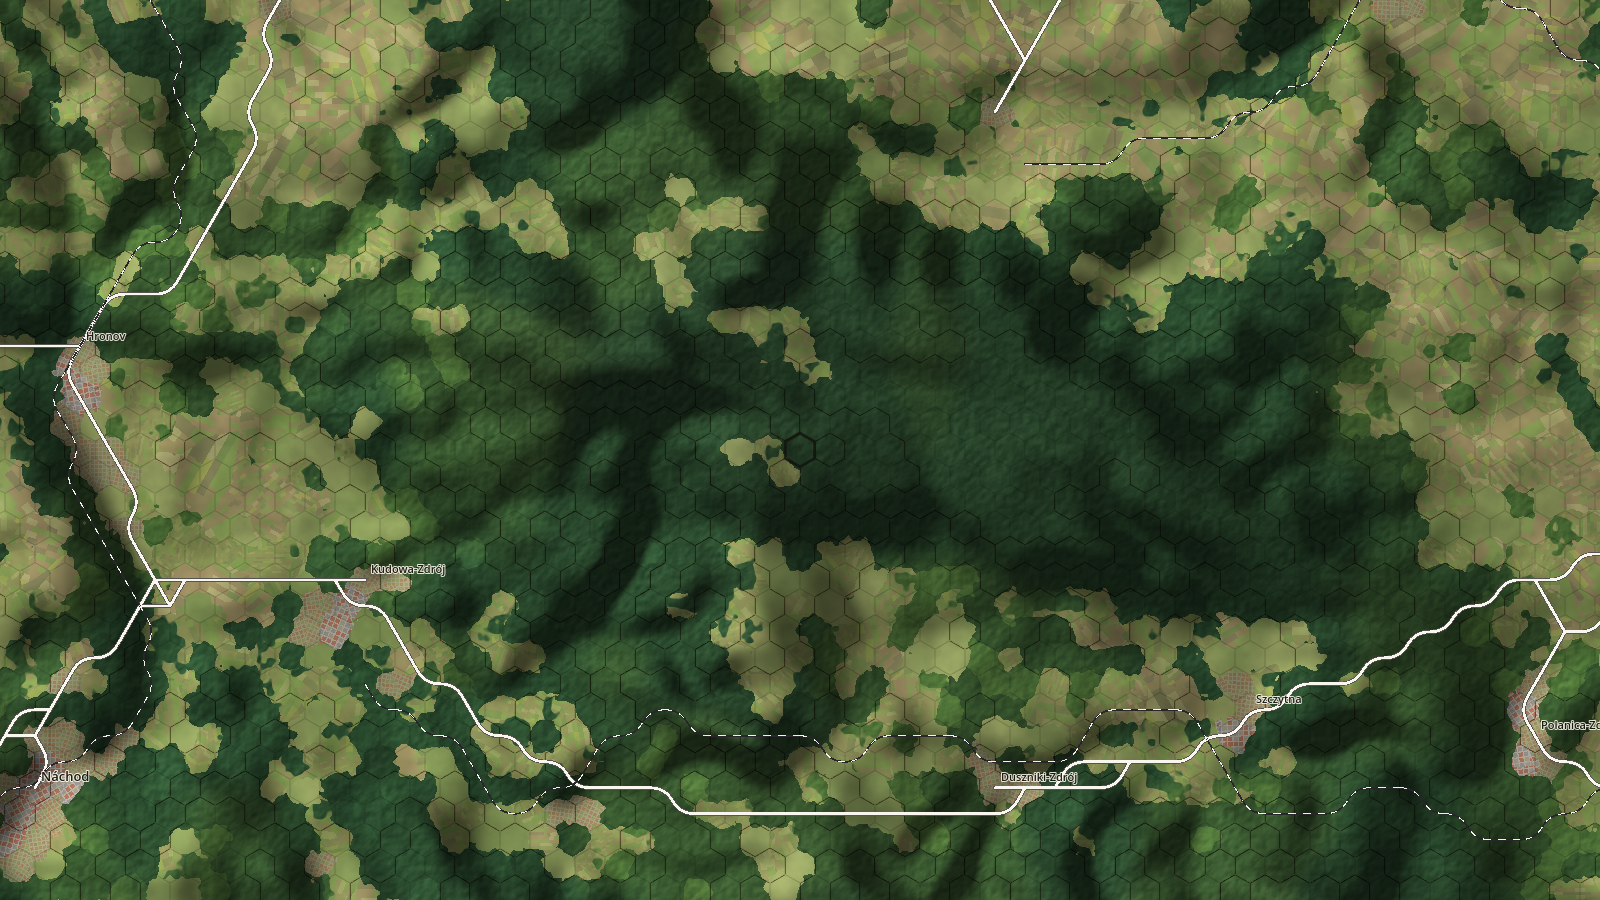
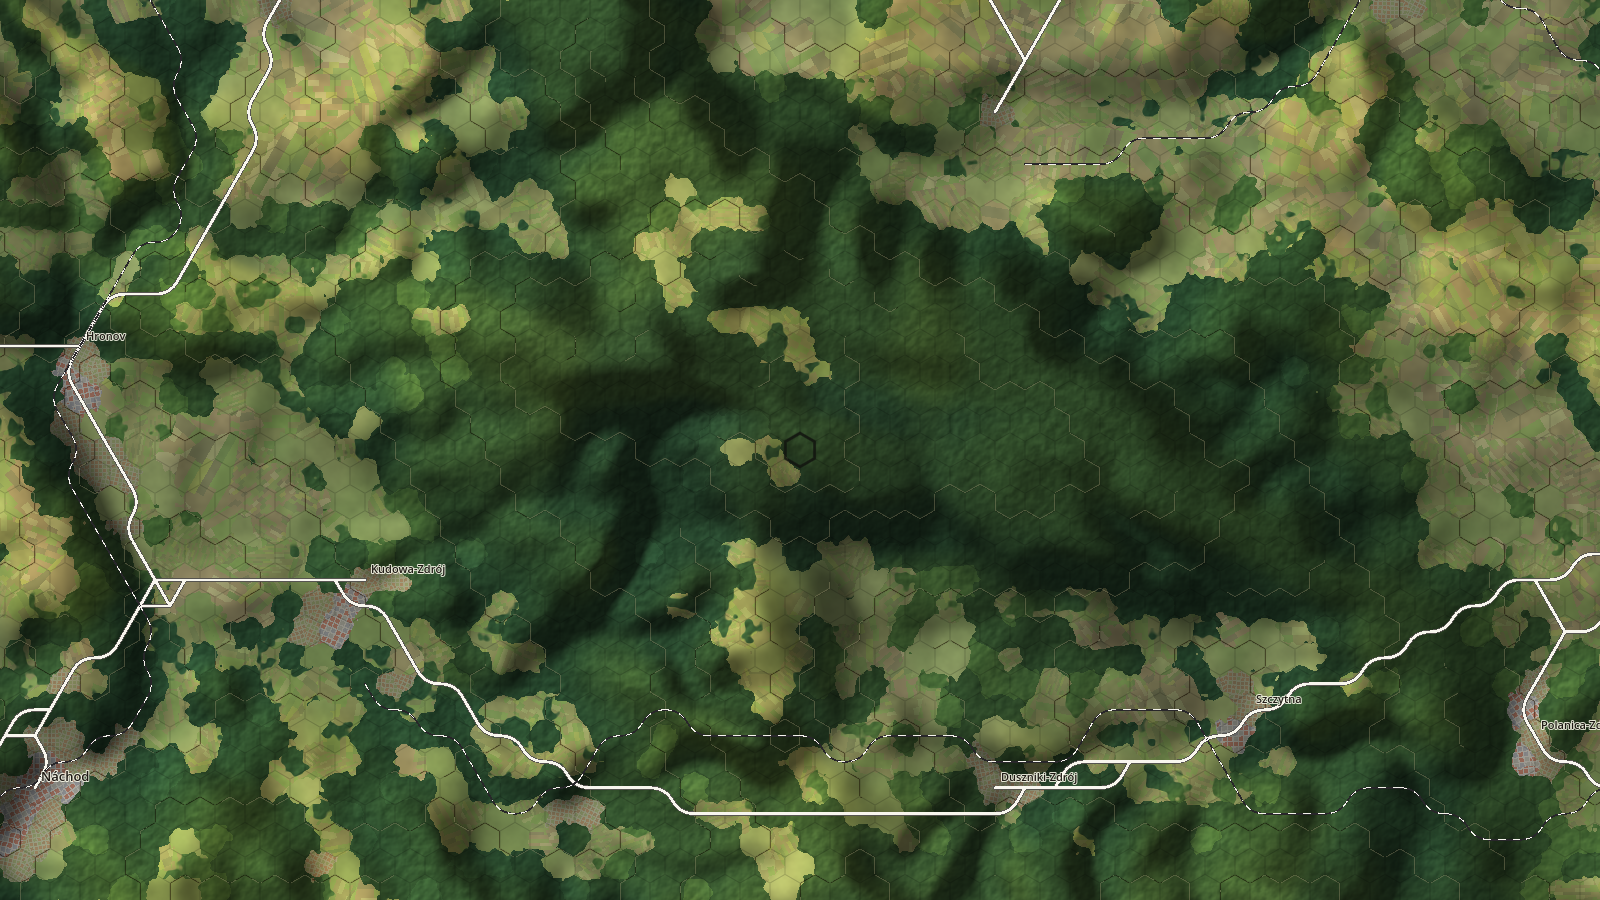
Elevation tint and step lines that follow the relief (terrain look, card 5)
- Elevation tint: ground above its surroundings (mean over ~3 km) lighter
  and warmer, lower ground darker and cooler, scaled to the local relief
  so gentle lowland rises show; View > Elevation tint.
- Step lines: band from the local slope (25/50/100/200/400 m, a line every
  3-4 hexes), hex heights smoothed over 1.4 km so lines trace clean
  terraces instead of a second hex grid; pale on forest, dark on fields.
- A mipmapped 1/8 copy of the height raster gives the shader local means.

Tests: --uitest 173 PASS (tint on/off, menu, picture changes). No C++
change: libraries untouched.

Claude-Session: https://claude.ai/code/session_01Ci47Wsw9Z7YaH1HWLoegDC

Changed region(s): [[0.0312, 0.0933, 0.0625, 0.1244]]

diff --git a/README.md b/README.md
@@ -9,7 +9,7 @@ This build proves the risky technical core of the design plan (roadmap phase 1, 
 - **Menus.** Every order and setting can be picked from a menu, and every menu item shows its key:
   - **Screen layout (work board MRK-35).** Panels are docked so they never cover each other: the contract line under the menu bar; the order of battle down the left (F11); the selection (a unit, a team, the company, or a place) on the right, with the tool panels (sandbox, planning key, ruler) stacked under it; the reports along the bottom. The selection panel scrolls when the right side is too short for it.
   - **Right-click order menu.** Right-click a hex with your units selected and a short menu opens at the cursor: Move, Road march, Deliberate move or Assault *here*, Hold and Fall back, then submenus: *More orders* (Regroup, Rest & resupply, Dismount / Mount up, Rejoin team), *Standing orders* (Fire, Break contact, Stand-off, Company default stand-off), *Team* (form, disband, select, formation, spread) and *Map here* (centre, look from here, measure, mark). A place or a marking under the cursor gets a submenu of its own. Its title says who gets the order and how far away the hex is, with the terrain; a hostile counter under the cursor is named ("only an assault goes in"). With nothing selected it offers map commands. F / Q / E / R (or the panel's move buttons) arm one order instead, so the next right-click sends it at once with no menu; Esc disarms.
-  - **Menu bar.** Game (new game, quick save and load, pause menu, quit), View (submenus Map: hex grid, 1 km grid, topographic map, painted textures, natural edges, elevation step lines; Units: company grouping, vehicles or NATO symbols, civilians; Command overlays: direct command, fire support, supply, line of sight; then the map legend, the order of battle, more reports, and the camera), Time (speeds, step 15 minutes, WeGo pulse, auto-pause), Orders (the same orders as the right-click menu, for the selection), Tools (planning map, ruler, route profile, 1 km grid, markings) and Help (controls, the contract briefing, map credits, and Debug: simulation fidelity zones, performance readout). The clock, speed buttons and company stocks sit beside it; days of supply show only when under 30 days (the tooltip has them all).
+  - **Menu bar.** Game (new game, quick save and load, pause menu, quit), View (submenus Map: hex grid, 1 km grid, topographic map, painted textures, natural edges, elevation tint, elevation step lines; Units: company grouping, vehicles or NATO symbols, civilians; Command overlays: direct command, fire support, supply, line of sight; then the map legend, the order of battle, more reports, and the camera), Time (speeds, step 15 minutes, WeGo pulse, auto-pause), Orders (the same orders as the right-click menu, for the selection), Tools (planning map, ruler, route profile, 1 km grid, markings) and Help (controls, the contract briefing, map credits, and Debug: simulation fidelity zones, performance readout). The clock, speed buttons and company stocks sit beside it; days of supply show only when under 30 days (the tooltip has them all).
   - **Selection panel.** Name and type; company, equipment and place on one line; vehicles in the fight; morale, fuel, ammunition and readiness on one line, each number green, amber or red; the situation and the current order; orders on the way, the route time left and the squads. *Details* (folded) holds engagement times and what slows them, sight and weapon ranges, fire support, stand-off, the chain of command and the command delay. Then the orders: move buttons that arm the next right-click; Hold, Fall back, Regroup, Resupply; Dismount / Mount up and Rejoin team only when they apply. *Standing orders* and *Team* fold to a one-line summary ("at will · heavy loss · S/O 2 km (co.)"; "Team A · wedge · 1 km") and open to their dropdowns ("Mixed" when the selection differs). For several units the panel gives totals and averages; the order of battle lists them.
   - **Reports.** The latest 3 along the bottom, or 10 with *More*; filters All, Combat (contacts, fire, losses, withdrawals), Supply (convoys, holdings) and Orders (orders and arrivals). Click one to centre the map on it.
   - **Counter tags.** The small tags under counters ("RET FIRE", "S/O 2.0km") show only what differs from the company's standing orders, plus everything for a selection of up to four units; order-delay tags show while orders are on the way.
@@ -44,7 +44,10 @@ This build proves the risky technical core of the design plan (roadmap phase 1, 
 - **Map marks.** Selected units show their route in blue with an arrowhead and arrival time, a dashed arrow and yellow tag for an order still travelling ("Road march +35′"), and a dashed line to their company HQ. Shots in sight draw a tracer and an impact flash, artillery a muzzle flash and a spread of bursts, fire from shooters you can't see shows as incoming bursts on your unit, and a destroyed unit explodes and leaves a wreck mark. The hex under the mouse is outlined. These are display only; they don't change any simulation result.
 - **Streaming.** Far out you see a one-pixel-per-hex overview; closer in, 64 × 64-hex chunk meshes are built in C++ and streamed in and out as the camera moves.
 - **Mixed ground (terrain look, card 2).** Patchwork country of small fields, hedgerows and copses, the everyday ground of much of central Europe, is its own terrain between fields and forest: going 3.5 / 6 / 8 minutes a hex (tracked / wheeled / on foot; fields 3 / 5 / 8, forest 6 / 10 / 10), hit chance x0.85 for vehicles and x0.75 for infantry, suppression x0.8, and a unit sitting still in it is found only within 2 km (3 km by recon; forest and towns 1 and 2 km), beyond that by chance. It still blocks sight with its 6 m of hedges and copses, as before. The hostile AI counts it as cover when it picks a position. Painted as smaller fields with copses and lone trees, hedgerows when close in, a greener tone from afar. The values are estimates between open ground and forest. On the contract they favour the defender a little: the active 8-seed playtest went from 7 won and 1 lost to 8 won, with 33 losses instead of 40 and longer contact. `kTerrainCost` and `terrain_cover_factor` in `core/src/sim.cpp`, checked by `tests/mixed_terrain_test.cpp`.
-- **Elevation step lines (terrain look, card 4).** As on a hex wargame map, a thin dark-brown line runs along every hex edge where the ground steps from one 50 m height band to the next (per-hex heights, the ones the rules use), drawn on the higher hex so it marks the lip of the step; a step of two bands or more is drawn heavier. Rolling lowland gets a few long lines round the higher ground, while hills are ringed band after band, so the shape of the high ground reads at playing zoom without the topographic mode. They fade in from 12 px per hex (full from 24), are left off at water and in the topographic mode (which has real contours), and View > Elevation step lines switches them off. Drawing only: `step_m` and `step_alpha` in `game/shaders/terrain.gdshader`.
+- **Reading the ground's height (terrain look, cards 4 and 5).** Two aids, each with its own View menu entry, both drawing only (`game/shaders/terrain.gdshader`):
+  - **Elevation tint**: ground higher than the country around it (its mean height over about 3 km) is lighter and warmer, lower ground darker and cooler. The tint is measured against the local relief, so a 15 m rise in flat farmland shows as plainly as a 150 m ridge in the hills, and it shows which way is up, which hill shading alone does not in flat country. Off in the topographic mode.
+  - **Elevation step lines**: a thin line along each hex edge where the ground steps from one height band to the next, drawn on the higher hex so it marks the lip of a terrace; a step of two bands or more is heavier. The band follows the local relief, about one line every three to four hexes up a slope: 25 m in flat country, 50 and 100 m in hills, 200 and 400 m in mountains, so lines neither crowd the hills into a second hex grid nor vanish from the lowland. They are dark brown on light ground and pale on dark ground such as forest. The heights compared are the hex heights smoothed over about 1.4 km (the raw per-hex heights are rough enough that banding them zig-zags along every edge); the rules' own height of a hex is in the hover readout. Lines fade in from 12 px per hex (full from 24) and are left off at water and in the topographic mode.
+  A mipmapped copy of the 180 m height raster at 1/8 resolution gives the shader the local mean height and slope (`setup_relief` in `game/scripts/map_view.gd`).
 - **Map look (work board MRK-29).** The ground is one sprite over the whole map, painted pixel by pixel by a shader (`game/shaders/terrain.gdshader`). For each pixel it finds the hex underneath in a per-hex data texture (terrain, light or dense, elevation, cover; `build_hex_data_image`) and paints that terrain with a material computed in world space, so a wood or a field runs on seamlessly from one hex into the next: forest canopy in clumps with single lit crowns close in, stands that change between broadleaf and conifer over a few kilometres; farm districts about a kilometre across, each with its own field direction and parcel size (long strips to collective-farm blocks), crops of mid-April (ploughed, harrowed, winter wheat, stubble, rapeseed) and grass strips between parcels; pasture with drifts of greener and drier grass and copses; marsh with pools and reeds; towns as quarters of their own kind (blocks round courtyards, slab estates, works with sheds, village lanes with houses and garden strips, farmsteads) with roofs, streets and shadows; at playing zoom, where single buildings are too small to draw, a generalised plan as on a printed map, blocks of 70-90 m along the quarter's street grid with pale streets and red tile roofs (tile and slate in dense towns), so every town reads as a town and not a grey patch; water darker where deeper. Woods and towns cast a soft shadow to the south-east. Hill shading comes from the 180 m height raster (a smooth cubic surface, light from the north-west), and high ground grows a little paler. **Natural edges** (default; View > Natural terrain edges switches to crisp hex borders): the three hex centres around a pixel vote for their terrain with their barycentric weights plus a little noise per terrain, so a jagged row of hex edges becomes one curving wood edge, while the centre of every hex always keeps its own terrain; the grid, the hover readout and the rules use the true hexes. Detail smaller than a few pixels fades to its average, and far out the shader uses one average colour per hex (mipmapped; the averages are measured from the materials with `--views`), so nothing shimmers. The hex grid is drawn in the same shader and fades in faintly from 14 px per hex, full from 30. The palette is deliberately restrained, as on a wargame map, where terrain has to read at a glance: olive and khaki farmland whose field pattern shows but does not shout, muted olive grassland, deep green forest. Roads, rivers and railways are chunk meshes over the ground, drawn as smooth curves through the middles of the hex edges they cross (a quadratic curve with the hex centre as control point) instead of zig-zags between hex centres, with casings and bridges: main roads orange, minor roads white with a grey casing, so the two classes read apart at a glance, and railways the map convention, a dark line with white dashes. (The data has these two road classes: Natural Earth's main roads and the minor and local roads; a third, secondary class would need a re-bake.) The variety (stands, parcels, building types) is decoration: the rules only know the terrain type and light or dense. **F4** (View > Map legend) shows the legend, whose ground swatches are painted by the same shader; **F6** switches the painted textures off (one flat colour per terrain). It is drawing only: no simulation or save-format change.
 - **One clock.** A fixed one-minute tick, pause, five speeds, auto-pause on contact, a speed cap while units are in contact, and an optional WeGo pulse.
 - **Command friction.** Orders take 5–30+ minutes to reach units, longer out of radio range, in combat, or when tired; 5 minutes more to start a halted unit moving, and 2 minutes to change a move already under way.
@@ -79,7 +82,7 @@ The map is baked from real data by `tools/bake_region.py` (see "The real map" be
 
 ![The same place with crisp hex borders (View > Natural terrain edges off)](docs/screenshots/37_terrain_crisp.png)
 
-![Elevation step lines in the hills around Kudowa-Zdrój: a line along each hex edge where the ground steps up 50 m](docs/screenshots/51_step_lines.png)
+![The hills around Kudowa-Zdrój with the elevation tint (ridges lighter, valleys darker) and step lines tracing the terraces](docs/screenshots/51_step_lines.png)
 
 ![Counters inside their hexes, showing each unit's main vehicle](docs/screenshots/31_counters_vehicles.png)
 
